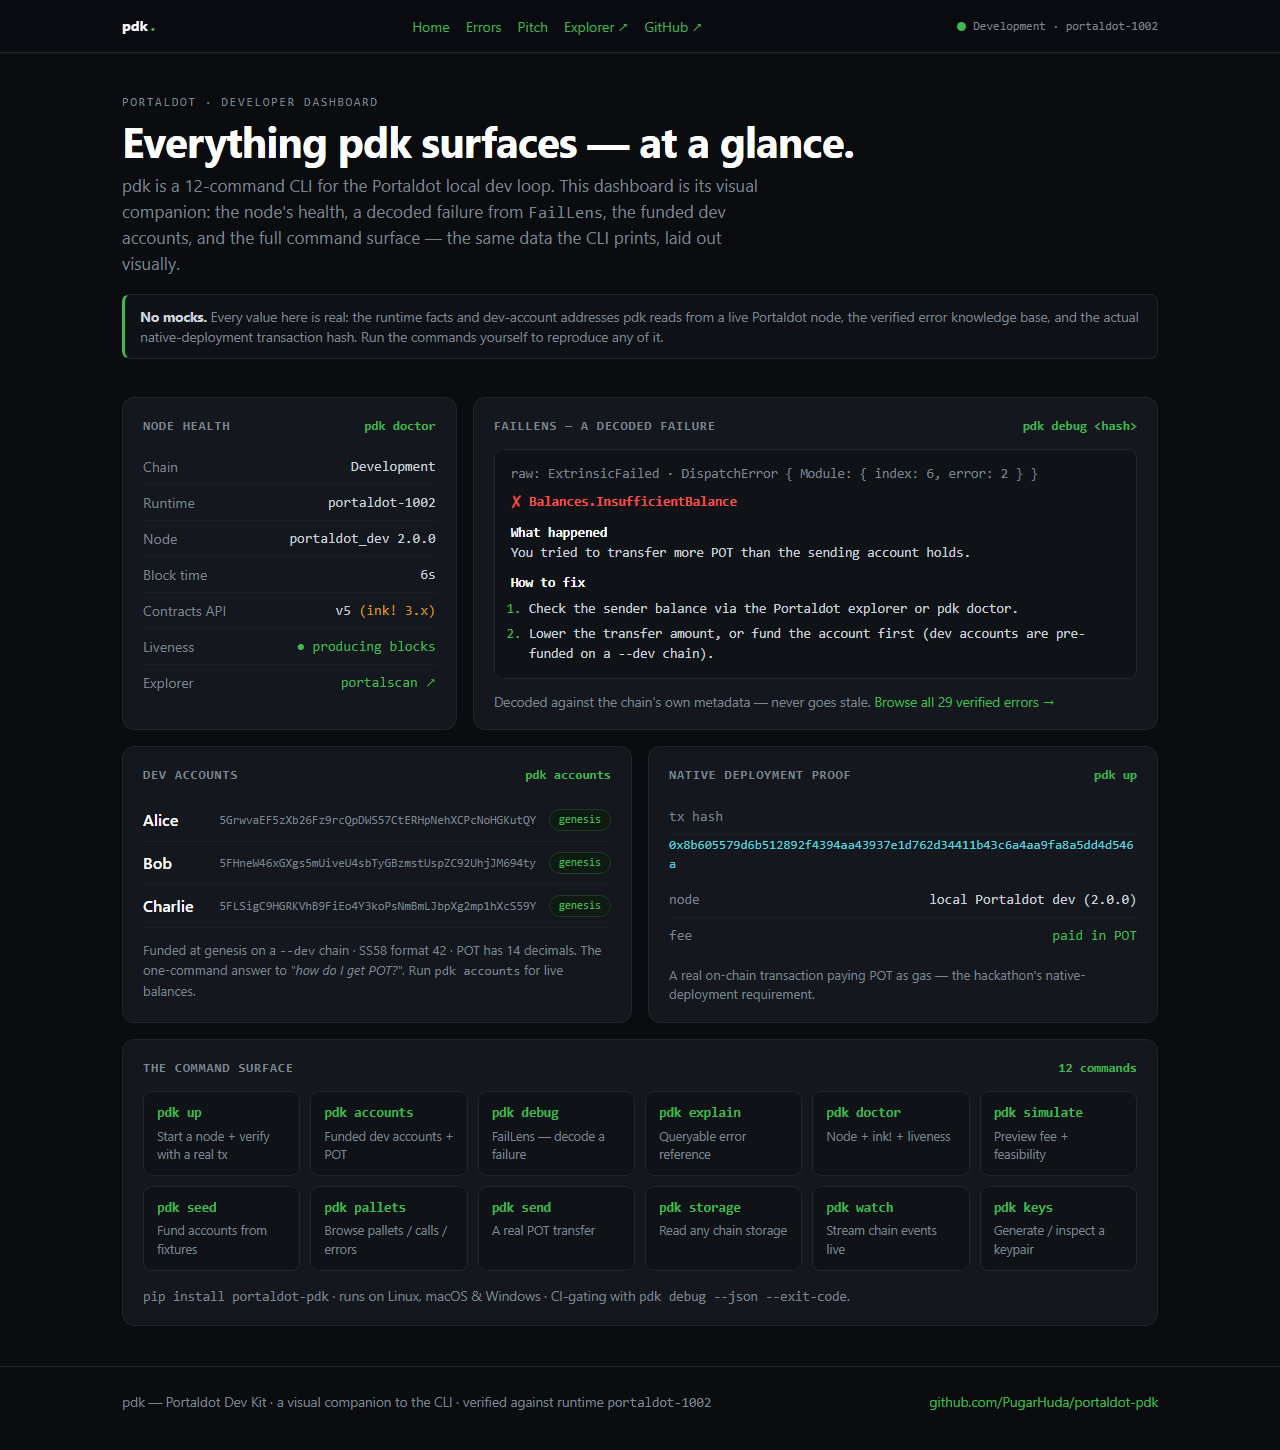
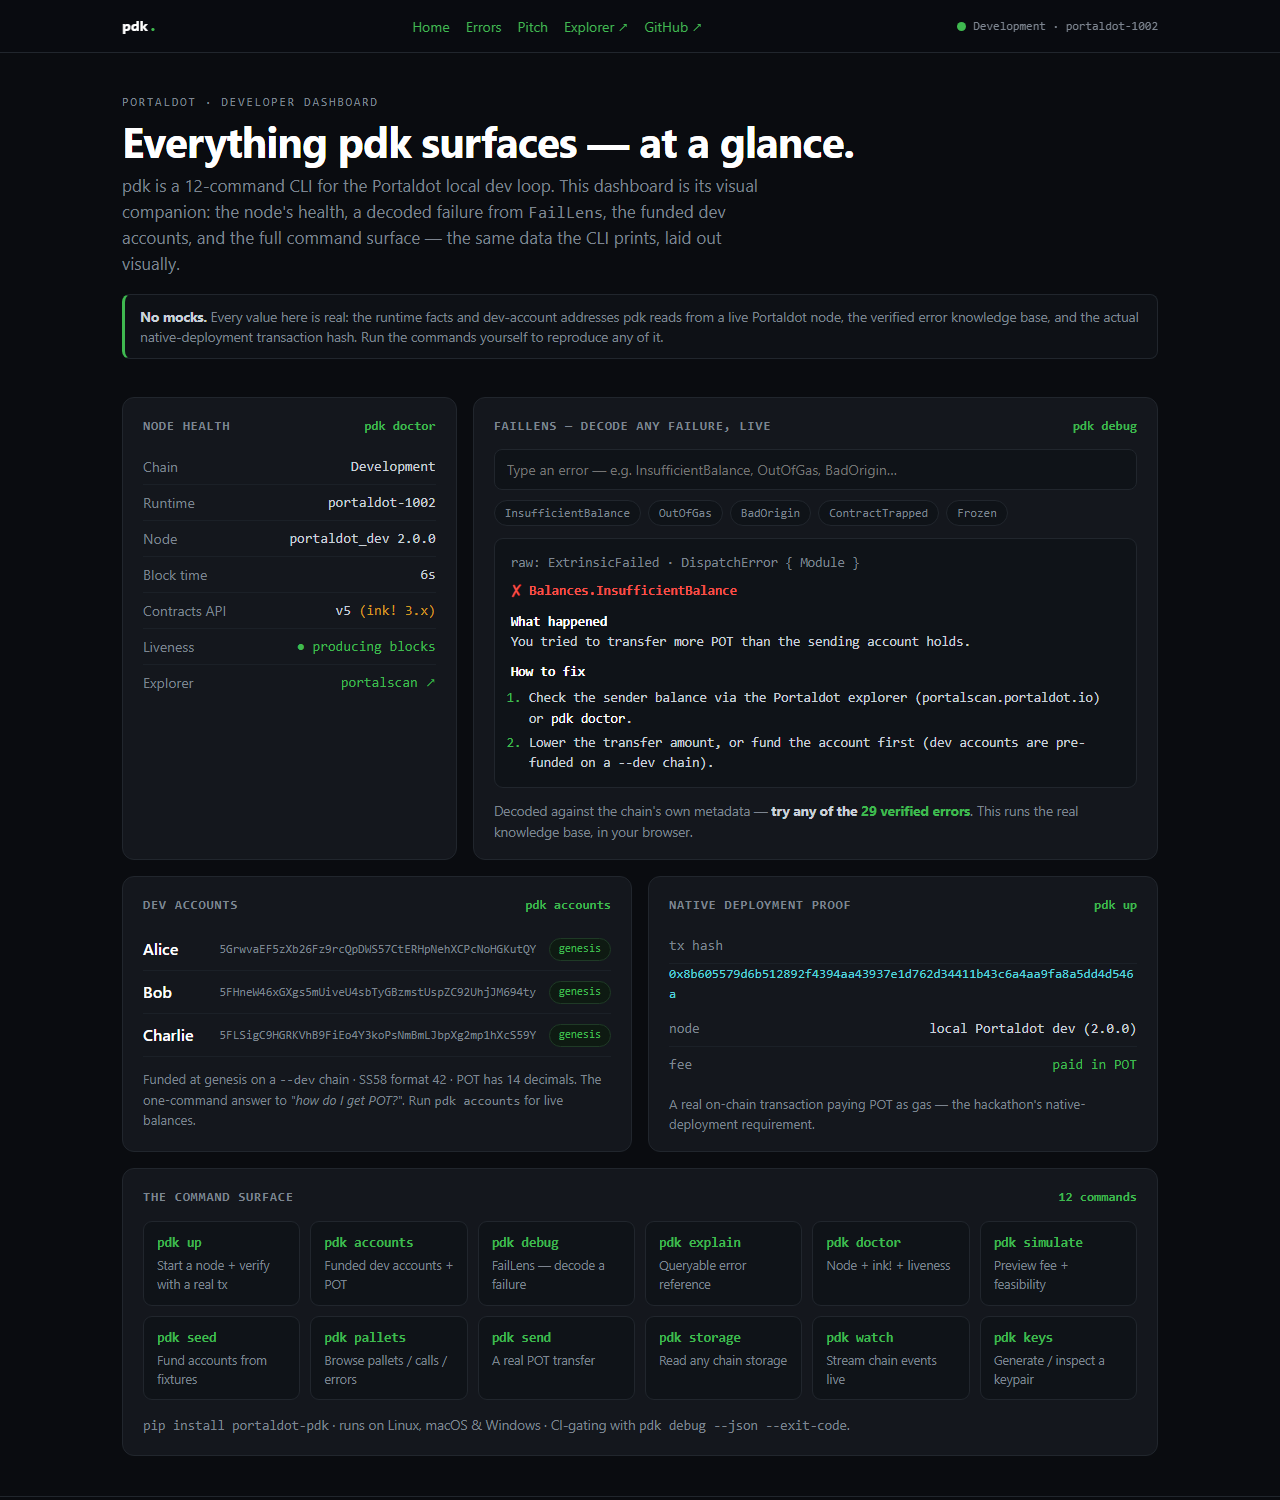
Make the dashboard's FailLens interactive (in-browser error decoder)
The dashboard was static. Turned the FailLens card into a working tool: type or
pick any of the 29 verified errors and it decodes live in the browser (pallet,
plain-language cause, numbered fix) — the real knowledge base, client-side, safe
DOM (no innerHTML). Verified with Playwright: typing "OutOfGas" re-decodes to
Contracts.OutOfGas with the gasLimit fix. A usable tool judges can try on the
page, not a screenshot.

diff --git a/web/dashboard/index.html b/web/dashboard/index.html
@@ -62,6 +62,14 @@
   ol.fix { margin:6px 0 0 18px; display:flex; flex-direction:column; gap:4px; }
   ol.fix li::marker { color:var(--green); }
 
+  .fl-input { width:100%; background:var(--panel2); border:1px solid var(--border); border-radius:8px;
+    color:var(--text); font-size:14px; padding:10px 12px; font-family:var(--sans); margin-bottom:10px; }
+  .fl-input:focus { outline:none; border-color:var(--green); }
+  .chips { display:flex; flex-wrap:wrap; gap:7px; margin-bottom:12px; }
+  .chip { font-family:var(--mono); font-size:12px; color:var(--muted); background:var(--panel2);
+    border:1px solid var(--border); border-radius:999px; padding:3px 10px; cursor:pointer; }
+  .chip:hover { border-color:var(--green); color:var(--text); }
+
   .acct { display:flex; align-items:center; justify-content:space-between; gap:12px; padding:9px 0; border-bottom:1px solid #1b2027; }
   .acct:last-child { border-bottom:0; }
   .acct .name { font-weight:600; color:#fff; min-width:64px; }
@@ -124,23 +132,15 @@
       <div class="kv"><span class="k">Explorer</span><span class="v"><a href="https://portalscan.portaldot.io">portalscan ↗</a></span></div>
     </div>
 
-    <!-- FailLens -->
+    <!-- FailLens (interactive) -->
     <div class="card col-8">
-      <h2>FailLens — a decoded failure <span class="cmd">pdk debug &lt;hash&gt;</span></h2>
-      <div class="term">
-        <div><span class="mut">raw:</span> <span class="mut">ExtrinsicFailed · DispatchError { Module: { index: 6, error: 2 } }</span></div>
-        <div style="margin-top:8px"><span class="err">✗ Balances.InsufficientBalance</span></div>
-        <div class="lbl">What happened</div>
-        <div>You tried to transfer more POT than the sending account holds.</div>
-        <div class="lbl">How to fix</div>
-        <ol class="fix">
-          <li>Check the sender balance via the Portaldot explorer or <span class="mono">pdk doctor</span>.</li>
-          <li>Lower the transfer amount, or fund the account first (dev accounts are pre-funded on a --dev chain).</li>
-        </ol>
-      </div>
+      <h2>FailLens — decode any failure, live <span class="cmd">pdk debug</span></h2>
+      <input id="q" class="fl-input" type="search" placeholder="Type an error — e.g. InsufficientBalance, OutOfGas, BadOrigin…" autocomplete="off" />
+      <div class="chips" id="chips"></div>
+      <div class="term" id="decoded"></div>
       <div style="margin-top:12px; color:var(--muted); font-size:13.5px;">
-        Decoded against the chain's own metadata — never goes stale.
-        <a href="/errors">Browse all 29 verified errors →</a>
+        Decoded against the chain's own metadata — <strong style="color:var(--text)">try any of the
+        <a href="/errors">29 verified errors</a></strong>. This runs the real knowledge base, in your browser.
       </div>
     </div>
 
@@ -202,6 +202,99 @@
     <span><a href="https://github.com/PugarHuda/portaldot-pdk">github.com/PugarHuda/portaldot-pdk</a></span>
   </div>
 </footer>
+
+<script>
+// Mirrors pdk/data/error_fixes.yaml (29 entries, verified vs live runtime metadata).
+const ERRORS = [
+  {p:"balances", n:"InsufficientBalance", s:"You tried to transfer more POT than the sending account holds.", f:["Check the sender balance via the Portaldot explorer (portalscan.portaldot.io) or `pdk doctor`.","Lower the transfer amount, or fund the account first (dev accounts are pre-funded on a --dev chain)."]},
+  {p:"balances", n:"ExistentialDeposit", s:"The transfer would leave an account below the Existential Deposit, so it was rejected.", f:["Leave at least the Existential Deposit in both the sender and receiver.","Or move the whole balance with `transfer` (allow death) instead of `transfer_keep_alive`."]},
+  {p:"balances", n:"KeepAlive", s:"The transfer would kill the sender account, but a keep-alive call was used.", f:["Reduce the amount so the sender keeps at least the Existential Deposit.","Use `transfer` if you intend to empty the account."]},
+  {p:"balances", n:"LiquidityRestrictions", s:"The funds are locked or frozen (e.g. by staking or vesting) and cannot be moved.", f:["Unlock the funds first — unbond from staking or wait for vesting to release."]},
+  {p:"balances", n:"DeadAccount", s:"The target account does not exist on-chain (it was reaped below the Existential Deposit).", f:["Send at least the Existential Deposit to create the account before further calls."]},
+  {p:"balances", n:"VestingBalance", s:"The balance is still locked by a vesting schedule and cannot be spent yet.", f:["Wait for the vesting schedule to release, or call `vesting.vest` to unlock vested funds."]},
+  {p:"assets", n:"BalanceLow", s:"The account does not hold enough of this asset for the operation.", f:["Mint or transfer more of the asset to the account before retrying."]},
+  {p:"assets", n:"NoPermission", s:"The signer is not the issuer/admin/freezer of this asset.", f:["Sign with the asset's admin account, or transfer the relevant role first."]},
+  {p:"assets", n:"Unknown", s:"The referenced asset id does not exist.", f:["Create the asset with `assets.create`, or correct the asset id."]},
+  {p:"assets", n:"Frozen", s:"The asset or the account's holding of it is frozen.", f:["Thaw the asset/account with the freezer role before transferring."]},
+  {p:"assets", n:"WouldDie", s:"The operation would drop the account's asset balance below the minimum, killing it.", f:["Leave at least the asset's minimum balance, or transfer the whole holding at once."]},
+  {p:"assets", n:"Unapproved", s:"No approved allowance exists for this delegated transfer.", f:["Call `assets.approve_transfer` from the owner before a `transfer_approved`."]},
+  {p:"contracts", n:"ContractNotFound", s:"No contract exists at the supplied address.", f:["Verify the address; ensure the contract was instantiated, not merely uploaded."]},
+  {p:"contracts", n:"ContractTrapped", s:"The contract panicked or hit a trap during execution.", f:["Check the contract logic and the message arguments; inspect debug output."]},
+  {p:"contracts", n:"CodeNotFound", s:"No uploaded code matches the given code hash.", f:["Upload the contract Wasm first, then instantiate with the resulting code hash."]},
+  {p:"contracts", n:"CodeTooLarge", s:"The uploaded contract Wasm exceeds the runtime size limit.", f:["Build with `--release` and optimise the Wasm (e.g. wasm-opt) to shrink it."]},
+  {p:"contracts", n:"OutOfGas", s:"Execution ran out of the supplied gas (weight) budget.", f:["Increase `gasLimit`. A dry-run call returns a realistic estimate to use."]},
+  {p:"contracts", n:"StorageExhausted", s:"The contract has no storage budget left for this operation.", f:["Fund the contract account so it can pay for additional storage."]},
+  {p:"contracts", n:"MaxCallDepthReached", s:"Cross-contract calls nested deeper than the runtime call-depth limit.", f:["Flatten the call graph so contracts do not call each other too deeply."]},
+  {p:"identity", n:"NotFound", s:"No identity is registered for this account.", f:["Register an identity with `identity.set_identity` before reading or judging it."]},
+  {p:"identity", n:"TooManyRegistrars", s:"The registrar set is already at its maximum size.", f:["No client-side fix — the runtime caps the number of registrars."]},
+  {p:"multisig", n:"NotFound", s:"No matching multisig operation was found to approve or cancel.", f:["Confirm the call hash, timepoint, and signatory set match the original proposal exactly."]},
+  {p:"multisig", n:"NotOwner", s:"Only the account that opened the multisig call may cancel it.", f:["Cancel from the original creator account, or approve instead of cancelling."]},
+  {p:"proxy", n:"NotProxy", s:"The signer is not registered as a proxy for the target account.", f:["Add the proxy relationship with `proxy.add_proxy` from the target account first."]},
+  {p:"staking", n:"InsufficientBond", s:"The bonded amount is below the minimum required to stake.", f:["Bond more POT so the stake meets the minimum bond threshold."]},
+  {p:"staking", n:"NotController", s:"The signing account is not the controller for this stash.", f:["Sign with the stash's controller account for staking operations."]},
+  {p:"scheduler", n:"TargetBlockNumberInPast", s:"The scheduled call's target block is already in the past.", f:["Schedule for a block number greater than the current chain head."]},
+  {p:"dispatch", n:"BadOrigin", s:"The call requires a different origin (e.g. Root or a specific owner) than the signer used.", f:["Sign with an account authorised for this call.","Root-only calls must be routed through the `sudo` pallet on a dev node."]},
+  {p:"dispatch", n:"CannotLookup", s:"An address lookup failed — e.g. an account index that does not resolve to an account.", f:["Pass a full account address instead of an index, or check the index exists."]},
+];
+const QUICK = ["balances.InsufficientBalance","contracts.OutOfGas","dispatch.BadOrigin","contracts.ContractTrapped","assets.Frozen"];
+
+const qEl = document.getElementById("q");
+const chipsEl = document.getElementById("chips");
+const out = document.getElementById("decoded");
+
+// Append text with `backtick` spans as inline code — text nodes only, no innerHTML.
+function rich(parent, text) {
+  text.split(/`([^`]+)`/).forEach((part, i) => {
+    if (i % 2 === 1) {
+      const s = document.createElement("span");
+      s.className = "mono"; s.style.color = "#fff"; s.textContent = part;
+      parent.appendChild(s);
+    } else if (part) {
+      parent.appendChild(document.createTextNode(part));
+    }
+  });
+}
+
+function decode(e) {
+  out.replaceChildren();
+  const raw = document.createElement("div");
+  const m = document.createElement("span"); m.className = "mut";
+  m.textContent = "raw: ExtrinsicFailed · DispatchError { Module }";
+  raw.appendChild(m); out.appendChild(raw);
+
+  const errLine = document.createElement("div"); errLine.style.marginTop = "8px";
+  const err = document.createElement("span"); err.className = "err";
+  err.textContent = "✗ " + e.p.charAt(0).toUpperCase() + e.p.slice(1) + "." + e.n;
+  errLine.appendChild(err); out.appendChild(errLine);
+
+  const l1 = document.createElement("div"); l1.className = "lbl"; l1.textContent = "What happened";
+  out.appendChild(l1);
+  const s = document.createElement("div"); rich(s, e.s); out.appendChild(s);
+
+  const l2 = document.createElement("div"); l2.className = "lbl"; l2.textContent = "How to fix";
+  out.appendChild(l2);
+  const ol = document.createElement("ol"); ol.className = "fix";
+  e.f.forEach((step) => { const li = document.createElement("li"); rich(li, step); ol.appendChild(li); });
+  out.appendChild(ol);
+}
+
+function find(q) {
+  q = q.trim().toLowerCase();
+  if (!q) return ERRORS[0];
+  return ERRORS.find((e) => (e.p + "." + e.n).toLowerCase().includes(q) || e.s.toLowerCase().includes(q)) || ERRORS[0];
+}
+
+qEl.addEventListener("input", () => decode(find(qEl.value)));
+QUICK.forEach((key) => {
+  const e = ERRORS.find((x) => (x.p + "." + x.n).toLowerCase() === key.toLowerCase());
+  if (!e) return;
+  const chip = document.createElement("span");
+  chip.className = "chip"; chip.textContent = e.n;
+  chip.addEventListener("click", () => { qEl.value = e.n; decode(e); });
+  chipsEl.appendChild(chip);
+});
+decode(ERRORS.find((e) => e.n === "InsufficientBalance") || ERRORS[0]);
+</script>
 
 </body>
 </html>